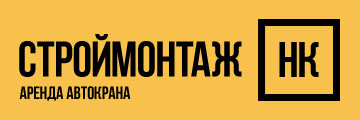
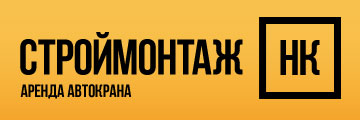
Add files via upload

diff --git a/lesson_10/css/main.css b/lesson_10/css/main.css
@@ -1,5 +1,7 @@
 .fon {
-  background-color: #f8c14c;
+  background-color: #f9c04c;
+  background: -webkit-gradient(linear, left top, left bottom, from(#f9c04c), to(#f4a125));
+  background: linear-gradient(180deg, #f9c04c, #f4a125);
   height: 170px;
   width: 100%;
 }
@@ -16,7 +18,7 @@
 }
 a {
   display: inline-block;
-  color: #f8c14c;
+  color: #f9c04c;
   font-size: 16px;
   margin-right: 35px;
 }
@@ -50,10 +52,16 @@ h1 {
   display: block;
   text-align: center;
   margin: 0px auto;
-  -webkit-box-shadow: 0px 0px 5px 1px  rgba(51, 51, 51, 0.09);
-   box-shadow: 0px 0px 5px 1px rgba(51, 51, 51, 0.09);
+  -webkit-box-shadow: 0px 0px 5px 1px rgba(51, 51, 51, 0.09);
+  box-shadow: 0px 0px 5px 1px rgba(51, 51, 51, 0.09);
 }
 .line {
   width: 100%;
   height: 46px;
+}
+.line-btn {
+  width: 100%;
+  height: 5px;
+  background-color: #f4a125;
+  margin-top: 80px;
 }

diff --git a/lesson_10/less/main.less b/lesson_10/less/main.less
@@ -1,12 +1,15 @@
-@bgc: #f8c14c;
-@bgc-l: #fbd59c;
-@lait: #232323
+@bgcgr: #f8c14d;
+@bgc: #f9c04c;
+@bgcgr: #f4a125;
+@bgch: #fbd59c;
+@lait: #232323;
 @ttl: #505050;
 @bg-i: #e5e5e5;
-@x-shadow: 2px  4px  rgba(51, 51, 51, 0.09);
+@x-shadow: rgba(51, 51, 51, 0.09);
 
 .fon {	
 	background-color: @bgc;
+	background: linear-gradient(180deg, @bgc, @bgcgr);
 	height: 170px;
 	width: 100%;
 } 
@@ -29,7 +32,7 @@ a {
 	
 }
 .section {
-	background-color: @bgc-l;
+	background-color: @bgch;
 	height: 90px;
 	margin-top: 2px;
 	width: 100%;
@@ -69,3 +72,11 @@ h1 {
 	width: 100%;
 	height: 46px;
 }
+.line-btn {
+	width: 100%;
+	height: 5px;
+	background-color: @bgcgr;
+	margin-top: 80px;
+}
+
+

diff --git a/lesson_10/index.html b/lesson_10/index.html
@@ -152,9 +152,10 @@
 		</div>
 	</div>		
 	</div>
-</div>
-		
+</div>	
+<div class="line-btn"></div>	
 	</div>
+	
  </div>
 </div>
 </div>
